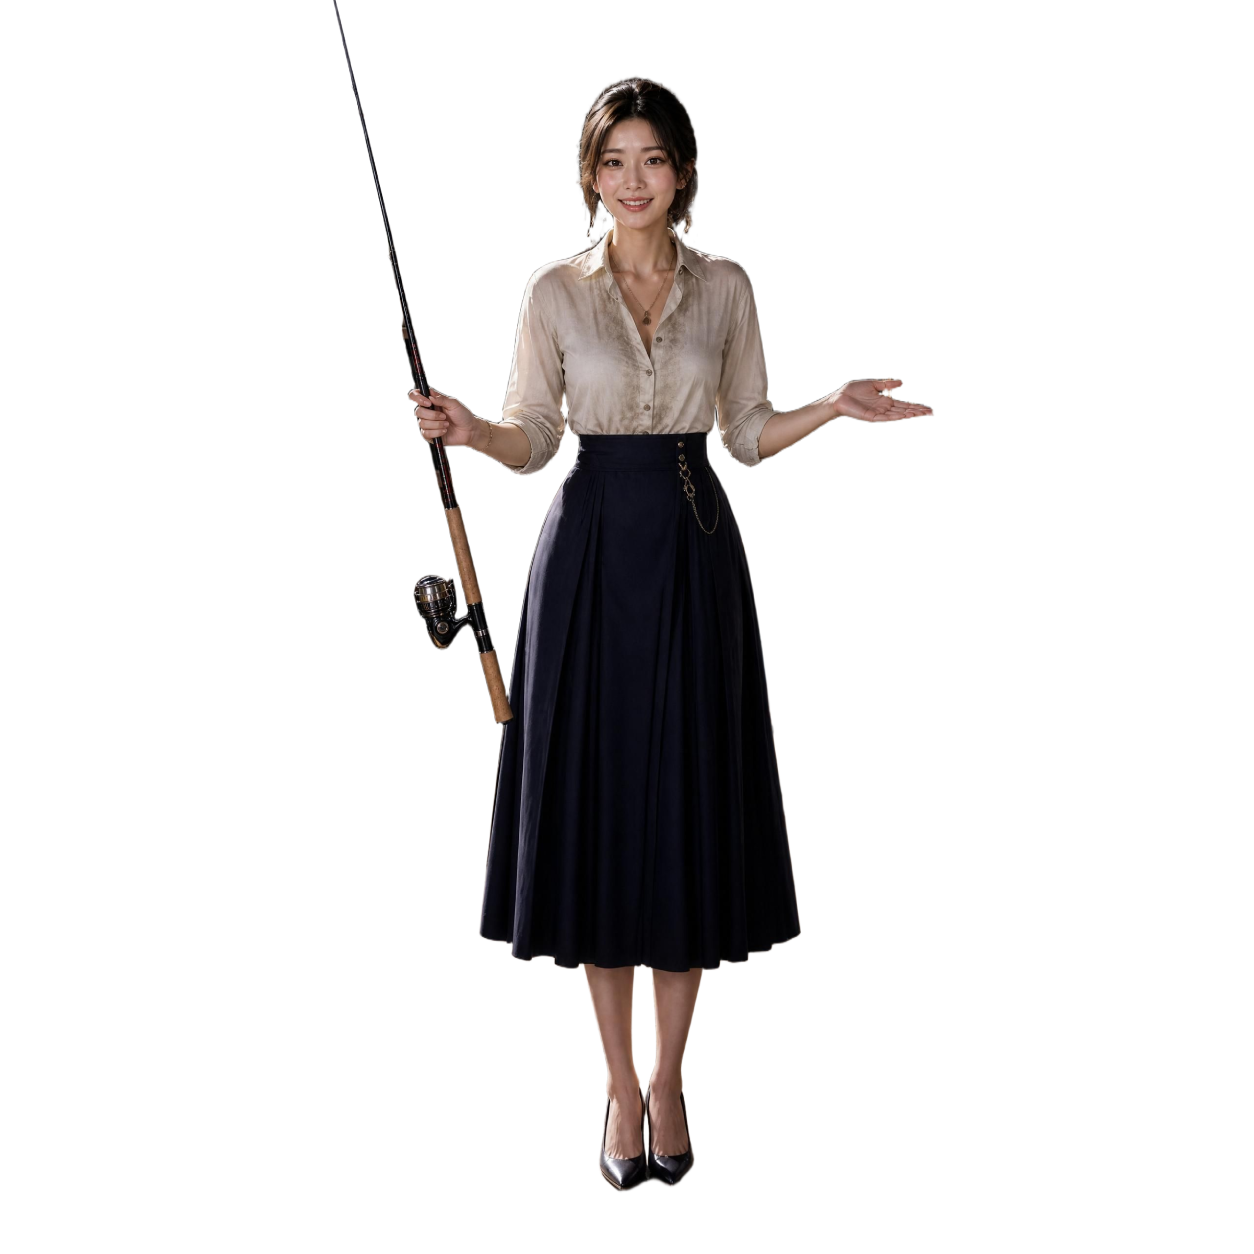
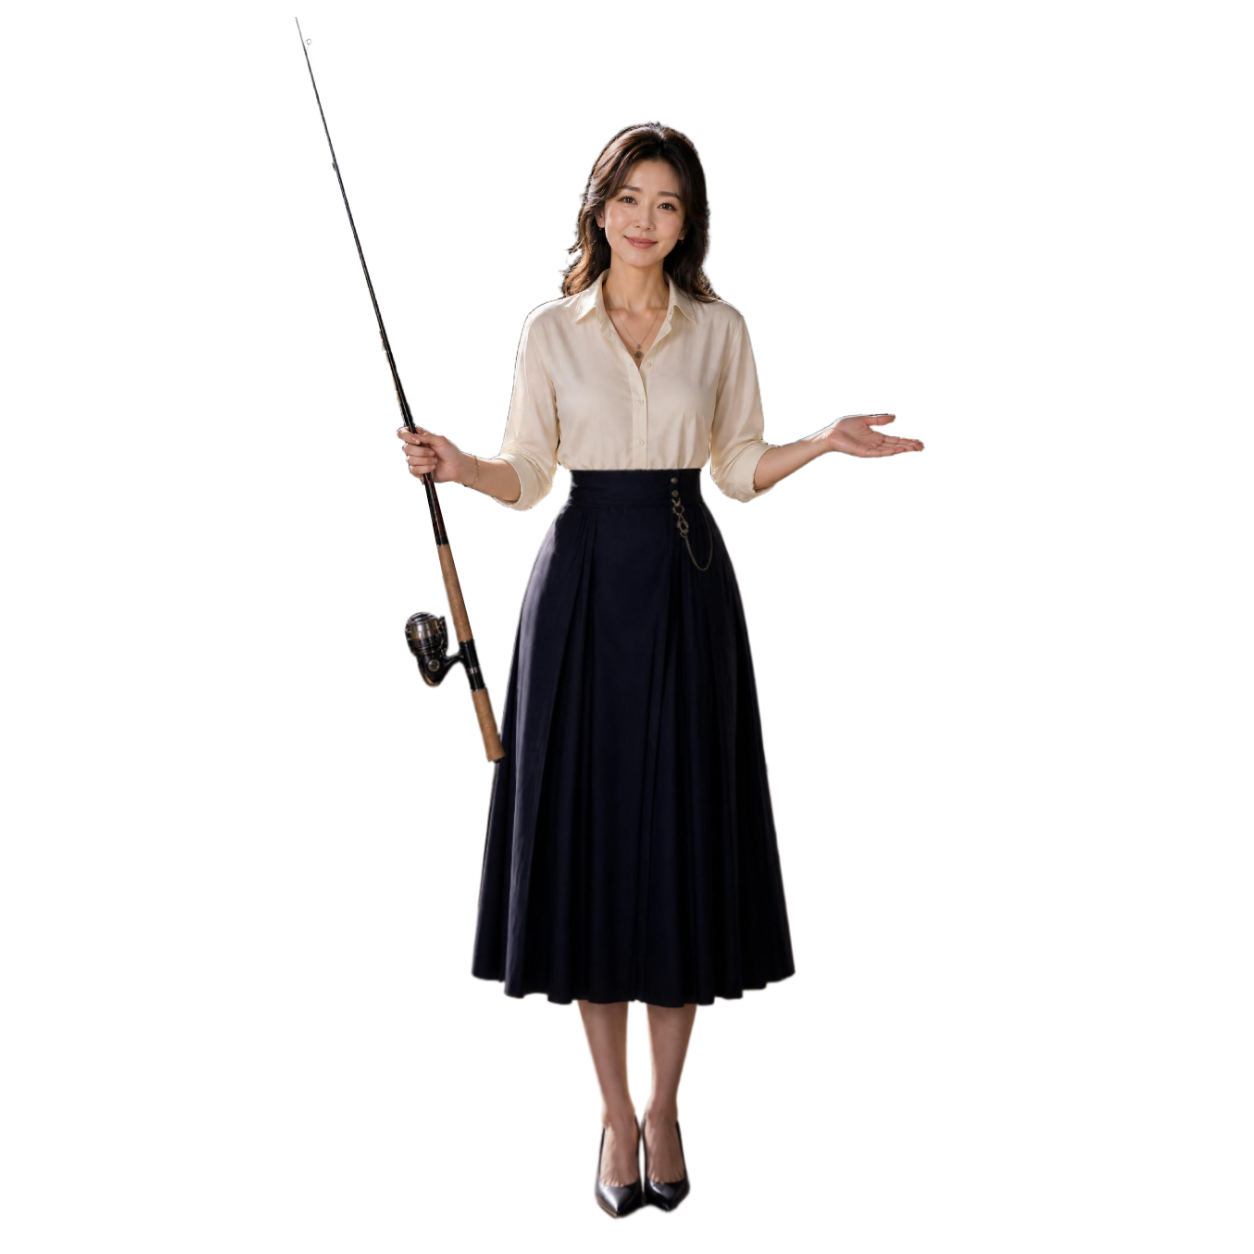
판매 목록에 물고기 마릿수 + 마리당 단가 표시
- FISH 아이템: '보유 수량: N마리 (마리당 OOP)' 표시 (기존엔 미끼만 수량 표시)

Changed region(s): [[0.2488, 0.0622, 0.7464, 0.9952]]

diff --git a/lib/ui_lobby.dart b/lib/ui_lobby.dart
@@ -1551,6 +1551,8 @@ class _StoreScreenState extends State<StoreScreen> {
                   child: const Text('⭐ 보유 최상급 — 판매 잠금',
                       style: TextStyle(color: Color(0xFFD4AF37), fontSize: 12, fontWeight: FontWeight.bold)),
                 )
+              else if ((item['type'] ?? '') == 'FISH')
+                Text('보유 수량: $qty마리  (마리당 ${fishSellPrice(itemName)}P)', style: const TextStyle(color: Colors.yellowAccent, fontSize: 13, fontWeight: FontWeight.bold))
               else if (bait)
                 Text('보유 수량: x$qty개', style: const TextStyle(color: Colors.yellowAccent, fontSize: 13, fontWeight: FontWeight.bold)),
             ]),